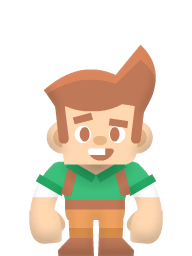
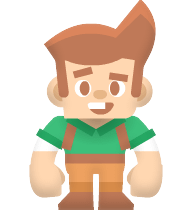
2.0

diff --git a/Piu_Piu.py b/Piu_Piu.py
@@ -1,11 +1,13 @@
 import pygame
 import random
+import db
 
 
 class Player(pygame.sprite.Sprite):
     def __init__(self, width, height):
         super().__init__()
         self.image = pygame.transform.scale(pygame.image.load("ship.png"), (150, 100))
+        self.mask = pygame.mask.from_surface(self.image)
         self.rect = self.image.get_rect()
         self.rect.centerx = width / 2
         self.rect.bottom = height - 10
@@ -34,8 +36,8 @@ class Player(pygame.sprite.Sprite):
 class Asteroid(pygame.sprite.Sprite):
     def __init__(self, width, height):
         super().__init__()
-        self.image = pygame.Surface((50, 50))
-        self.image.fill("red")
+        self.image = pygame.transform.scale(pygame.image.load("asteroid.png"), (50, 50))
+        self.mask = pygame.mask.from_surface(self.image)
         self.rect = self.image.get_rect()
         self.rect.x = random.randrange(width - self.rect.width)
         self.rect.y = random.randrange(-100, -40)
@@ -59,8 +61,9 @@ class Asteroid(pygame.sprite.Sprite):
 class Bullet(pygame.sprite.Sprite):
     def __init__(self, x, y):
         super().__init__()
-        self.image = pygame.Surface((10, 30))
+        self.image = pygame.Surface((20, 30))
         self.image.fill("yellow")
+        self.mask = pygame.mask.from_surface(self.image)
         self.rect = self.image.get_rect()
         self.rect.bottom = y
         self.rect.centerx = x
@@ -76,39 +79,56 @@ def main(screen, clock, width, height, FPS):
     all_sprites = pygame.sprite.Group()
     asteroids = pygame.sprite.Group()
     shots = pygame.sprite.Group()
+
     player = Player(width, height)
     all_sprites.add(player)
+
     for _ in range(10):
         m = Asteroid(width, height)
         all_sprites.add(m)
         asteroids.add(m)
 
-    counter = 0
+    hp, counter = db.read("hp"), 0
+
+    hp_image = pygame.transform.scale(pygame.image.load("hp.png"), (40, 40))
+
     running = True
     while running:
         clock.tick(FPS)
 
         for event in pygame.event.get():
             if event.type == pygame.QUIT:
-                running = False
+                pygame.quit()
+                quit()
             elif event.type == pygame.KEYDOWN:
                 if event.key == pygame.K_w:
                     player.shoot(all_sprites, shots)
 
         all_sprites.update()
 
-        hits = pygame.sprite.groupcollide(asteroids, shots, True, True)
+        hits = pygame.sprite.groupcollide(
+            asteroids, shots, True, True, pygame.sprite.collide_mask
+        )
         for _ in hits:
             m = Asteroid(width, height)
             all_sprites.add(m)
             asteroids.add(m)
             counter += 1
 
-        hits = pygame.sprite.spritecollide(player, asteroids, False)
+        hits = pygame.sprite.spritecollide(
+            player, asteroids, True, pygame.sprite.collide_mask
+        )
         if hits:
-            return counter
+            hp -= 1
+            if hp == 0:
+                return counter
 
-        screen.fill("black")
+        screen.fill((10, 10, 10))
+
         all_sprites.draw(screen)
 
+        for i in range(hp):
+            screen.blit(hp_image, (10 + i * 50, 10))
+
         pygame.display.flip()
+    return counter

diff --git a/game_menu.py b/game_menu.py
@@ -4,6 +4,7 @@ from classes import Character
 import db
 import Snake
 import Piu_Piu
+import Runner
 
 
 def main(
@@ -23,6 +24,11 @@ def main(
     )
     all_sprites.add(piu_piu)
     piu_piu.click = Piu_Piu.main
+    runner = Button(
+        1150, 650, pygame.transform.scale(pygame.image.load("runner.png"), (92, 92))
+    )
+    all_sprites.add(runner)
+    runner.click = Runner.main
 
     counter_cash = db.read("cash")
     cash_font = pygame.font.SysFont("Arial", 48)
@@ -31,7 +37,11 @@ def main(
     counter_bg = -1
     index_coin = 1
     counter_coin = 0
+
     surface_coin = pygame.image.load(f"video_coin/star coin rotate {index_coin}.png")
+    hp_image = pygame.image.load("hp.png")
+    damage_image = pygame.image.load("damage.png")
+    speed_image = pygame.image.load("speed.png")
 
     running = True
     while running:
@@ -50,11 +60,17 @@ def main(
                         db.write("cash", counter_cash, "write")
                         running = False
                     elif snake.collide(*event.pos):
-                        counter_cash += (
-                            snake.click(screen, clock, width, height, FPS) * 3
-                        )
+                        counter_cash += snake.click(
+                            screen, clock, width, height, FPS
+                        ) * db.read("damage")
                     elif piu_piu.collide(*event.pos):
-                        counter_cash += piu_piu.click(screen, clock, width, height, FPS)
+                        counter_cash += piu_piu.click(
+                            screen, clock, width, height, FPS
+                        ) * db.read("damage")
+                    elif runner.collide(*event.pos):
+                        counter_cash += runner.click(
+                            screen, clock, width, height, FPS
+                        ) * db.read("damage")
 
         all_sprites.update()
 
@@ -70,15 +86,27 @@ def main(
         surface_cash = cash_font.render(str(counter_cash), True, "white")
         screen.blit(
             surface_cash,
-            (width - 200 - surface_cash.width, 23),
+            (250, 23),
         )
         screen.blit(
             surface_coin,
-            (width - 260 - surface_cash.width - surface_coin.width // 2, 25),
+            (200, 25),
         )
         screen.blit(
             game_font.render("Мини-игры:", True, "white"),
             (1050, 200),
+        )
+        screen.blit(
+            damage_image,
+            (50, 150),
+        )
+        screen.blit(
+            hp_image,
+            (50, 350),
+        )
+        screen.blit(
+            speed_image,
+            (50, 550),
         )
 
         all_sprites.draw(screen)

diff --git a/Runner.py b/Runner.py
@@ -1,0 +1,70 @@
+import pygame
+import db
+import random
+
+
+class Player(pygame.sprite.Sprite):
+    def __init__(self, width, height, image):
+        super().__init__()
+        self.image = image
+        self.rect = self.image.get_rect()
+        self.rect.topleft = (0, 0)
+        self.speed = db.read("speed")
+
+    def update(self):
+        self.speedx = self.speedy = 0
+        keystate = pygame.key.get_pressed()
+        if keystate[pygame.K_w]:
+            self.speedy = -self.speed
+        if keystate[pygame.K_s]:
+            self.speedy = self.speed
+        self.rect.x += self.speedx
+        self.rect.y += self.speedy
+
+
+class Coin(pygame.sprite.Sprite):
+    def __init__(self, width, height, img):
+        super().__init__()
+        self.image = img
+        self.rect = self.image.get_rect()
+        self.rect.x = random.randrange(width, width + self.rect.width)
+        self.rect.y = random.randrange(0, height - self.rect.height)
+        self.speedx = random.randrange(3, 9)
+        self.width, self.height = width, height
+
+    def update(self):
+        self.rect.x -= self.speedx
+        if self.rect.left < 0:
+            self.rect.x = random.randrange(self.width, self.width + self.rect.width)
+            self.rect.y = random.randrange(0, self.height - self.rect.height)
+            self.speedx = random.randrange(3, 9)
+
+
+def main(screen, clock, width, height, FPS):
+    player_img = pygame.image.load("male.png")
+    coin_img = pygame.image.load("video_coin/star coin rotate 1.png")
+
+    all_sprites = pygame.sprite.Group()
+    player = Player(player_img)
+    all_sprites.add(player)
+    coin = Coin(width, height, coin_img)
+    all_sprites.add(coin)
+    running = True
+    while running:
+        clock.tick(FPS)
+
+        for event in pygame.event.get():
+            if event.type == pygame.QUIT:
+                running = False
+
+        all_sprites.update()
+        hits = player.rect.colliderect(coin.rect)
+        if hits:
+            coin.rect.x = random.randrange(coin.width, coin.width + coin.rect.width)
+            coin.rect.y = random.randrange(0, coin.height - coin.rect.height)
+            coin.speedx = random.randrange(3, 9)
+        screen.fill((10, 10, 10))
+        all_sprites.draw(screen)
+        pygame.display.flip()
+
+    return 1

diff --git a/classes.py b/classes.py
@@ -4,7 +4,7 @@ import pygame
 class Character(pygame.sprite.Sprite):
     def __init__(self, x: int, y: int):
         super().__init__()
-        self.image = pygame.image.load("male.png")
+        self.image = pygame.transform.scale(pygame.image.load("male.png"), (450, 480))
         self.rect = self.image.get_rect()
         self.rect.center = x, y
 
